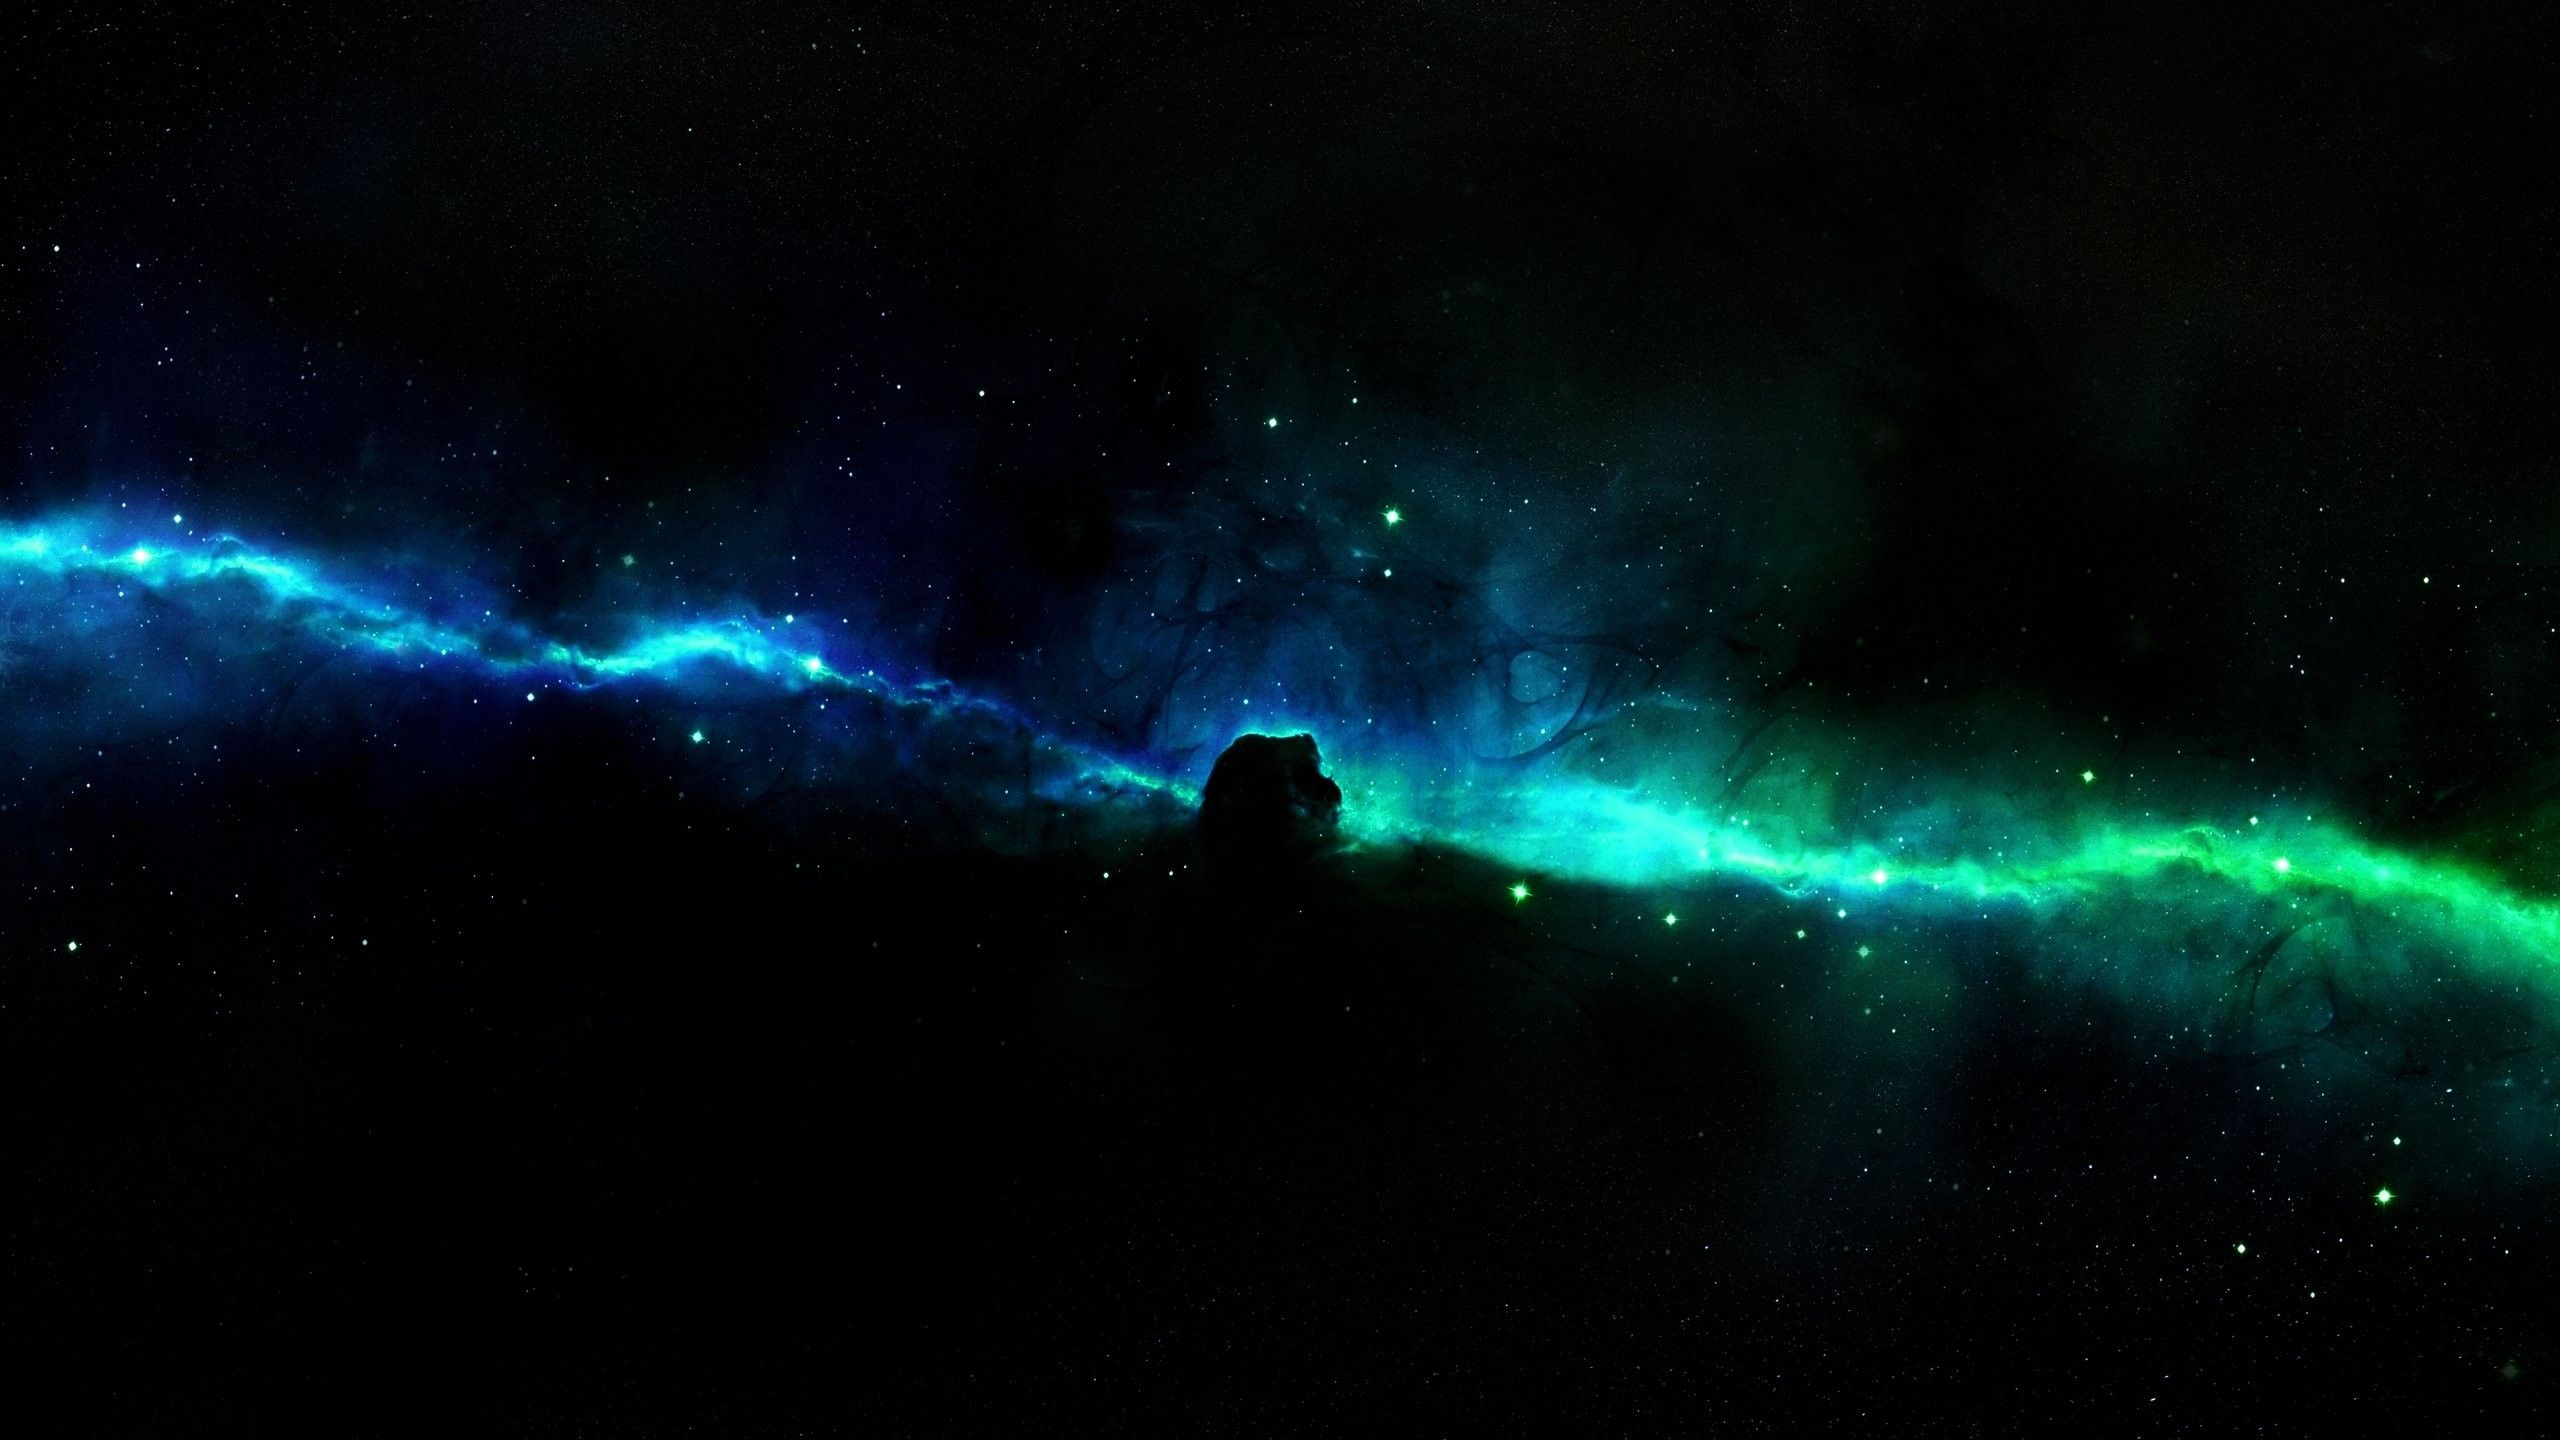
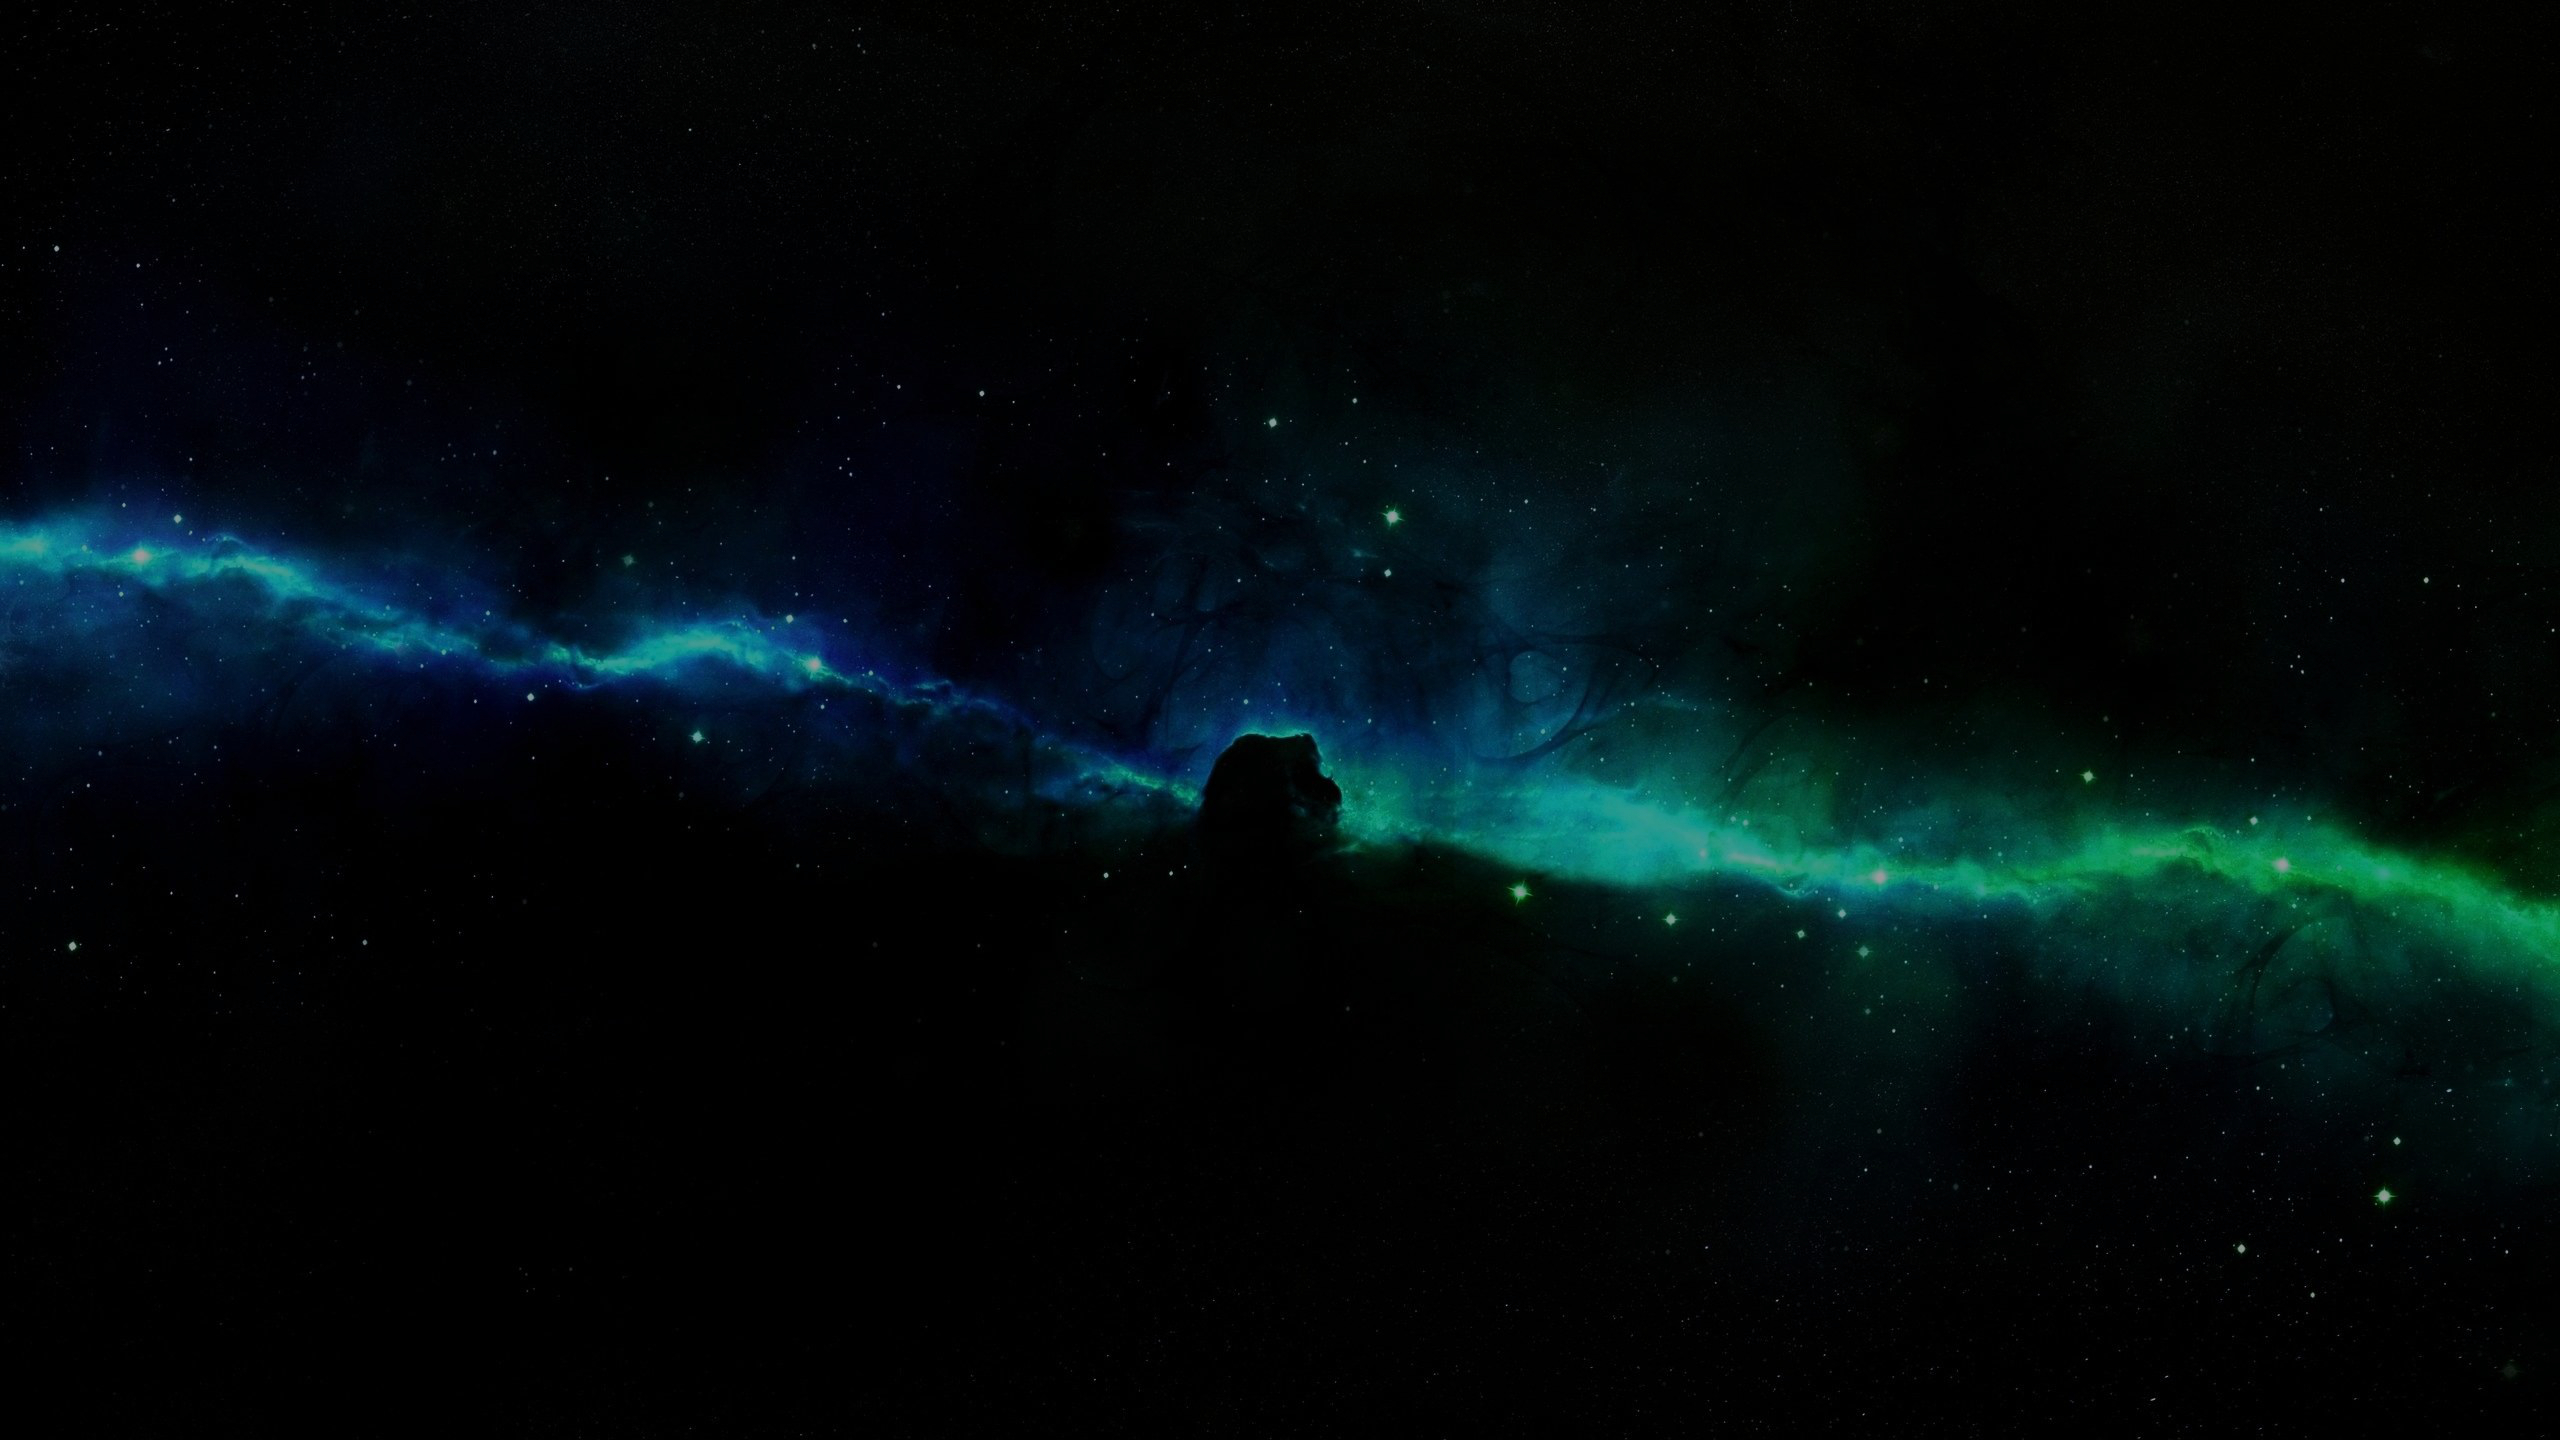
Working on styles and overall appearance.

Changed region(s): [[0.0, 0.3125, 1.0, 0.7188]]

diff --git a/src/App.vue b/src/App.vue
@@ -1,15 +1,13 @@
 <template>
   <div class="app">
-    <div class="nav">
-      <router-link to="/">IMGS</router-link>
-      |
-      <router-link to="/about">about</router-link>
-    </div>
+      <router-link class="imgs" to="/">IMGS</router-link>
+      <router-link class="about" to="/about">about</router-link>
     <router-view />
   </div>
 </template>
 
 <style lang="scss">
+  @import url('https://fonts.googleapis.com/css2?family=Work+Sans:wght@300;500;700&display=swap');
   html, body {
     height: 100%;
     margin: 0;
@@ -17,13 +15,33 @@
   }
   .app {
     height: 100%;
+    display: flex;
+    justify-content: center;
+    align-items: center;
   }
-  body {
+  html {
     background-image: url("assets/background.jpg");
     background-repeat: no-repeat;
     background-size: cover;
     background-position: center;
-    font-family: "Lucida Console", Courier, monospace;
+    font-family: 'Work Sans', sans-serif;
     background-color: black;
+
+  }
+  body {
+
+    background-image: radial-gradient(rgba(0, 0, 0, 0.4),
+    rgba(0, 0, 0, 0.2),
+    rgba(0, 0, 0, 0));
+  }
+  .imgs {
+    position: absolute;
+    top: 5px;
+    left: 10px;
+  }
+  .about {
+    position: absolute;
+    top: 5px;
+    right: 10px;
   }
 </style>

diff --git a/src/components/Header.vue b/src/components/Header.vue
@@ -1,7 +1,7 @@
 <template>
   <div class="wrapper">
-    <h1>The IMGS.</h1>
-    <h2>NASA's space image search engine.</h2>
+    <h1 class="heading">The IMGS</h1>
+    <h2 class="subheading">NASA's space image search engine.</h2>
   </div>
 </template>
 <script>
@@ -11,14 +11,16 @@ export default {
 </script>
 <style lang="scss" scoped>
 .wrapper {
-  margin-top: 200px;
   display: flex;
   flex-direction: column;
-  align-items: center;
-  justify-content: center;
 }
-h1, h2 {
+.heading {
+  font-size: 60px;
+  letter-spacing: 5px;
+}
+.heading, .subheading {
   color: white;
-  text-shadow: 0 0 20px #FFFFFF;
+  text-shadow: 0 0 10px rgb(200, 200, 200);
+  text-align: center;
 }
 </style>

diff --git a/src/views/About.vue b/src/views/About.vue
@@ -1,5 +1,5 @@
 <template>
-  <div class="about">
+  <div class="mainAbout">
     <h1>This is an about page</h1>
   </div>
 </template>
@@ -9,3 +9,13 @@ export default {
   name: 'About',
 };
 </script>
+
+<style lang="scss">
+  .mainAbout {
+    height: 100%;
+    display: flex;
+    justify-content: center;
+    align-items: center;
+  }
+
+</style>

diff --git a/src/views/Search.vue b/src/views/Search.vue
@@ -64,8 +64,8 @@ export default {
     margin: 0;
   }
   .query {
-    text-shadow: 0 0 20px #FFFFFF;
-    margin-top: 150px;
+    text-shadow: 0 0 10px rgb(200, 200, 200);
+    margin-top: 60px;
     display: flex;
     flex-direction: column;
     width: 250px;
